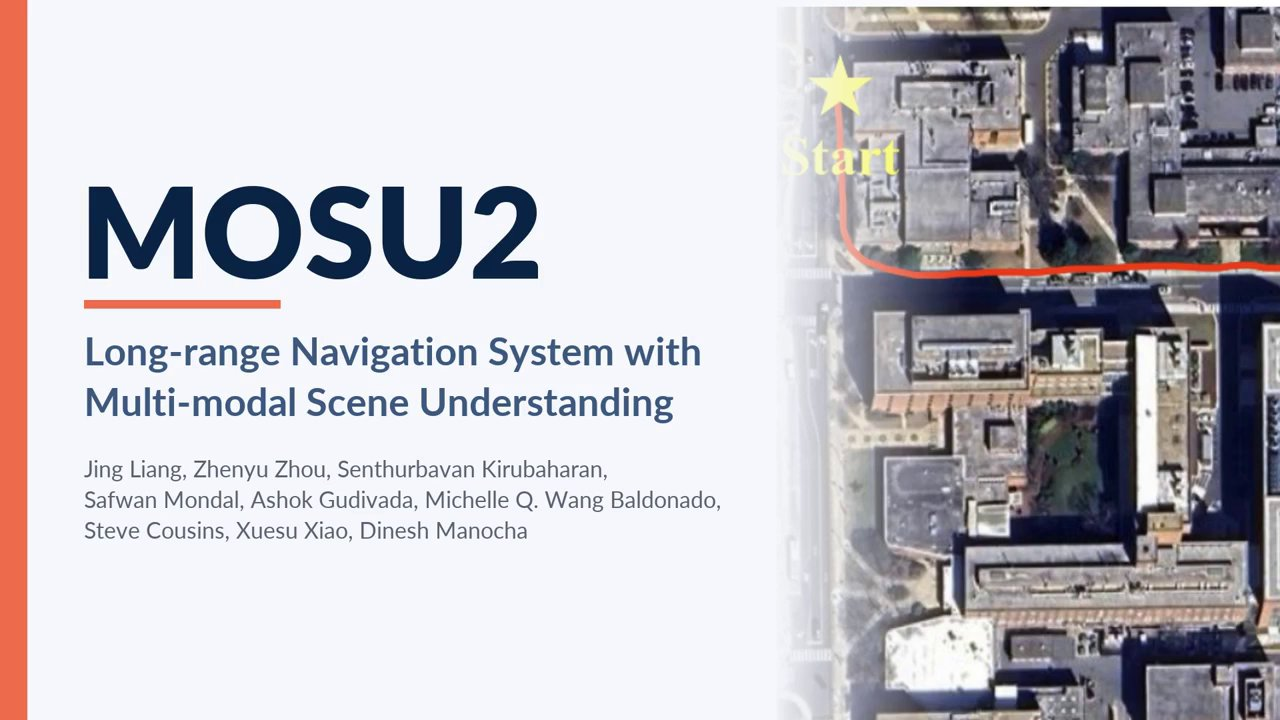
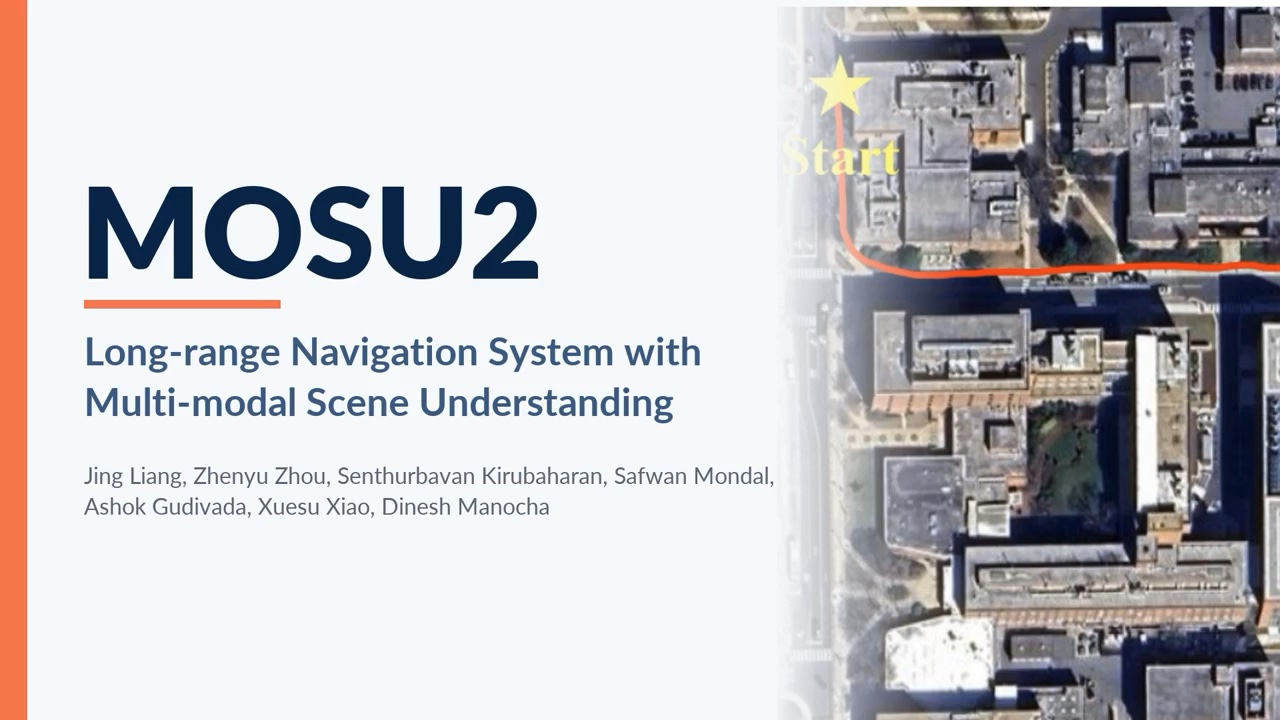
Update video poster to match new mosu2.mp4 title card

Changed region(s): [[0.0625, 0.6417, 0.625, 0.7639]]

diff --git a/index.html b/index.html
@@ -59,7 +59,7 @@ a{color:var(--accent)}
 </header>
 
 <section id="video">
-  <video controls preload="metadata" poster="assets/poster.jpg" playsinline>
+  <video controls preload="metadata" poster="assets/poster.jpg?v=2" playsinline>
     <source src="mosu2.mp4" type="video/mp4">
   </video>
   <figcaption>All real-world experiments: stop gestures, construction sites, signalized crosswalks, shared roads and unsignalized roads.</figcaption>
